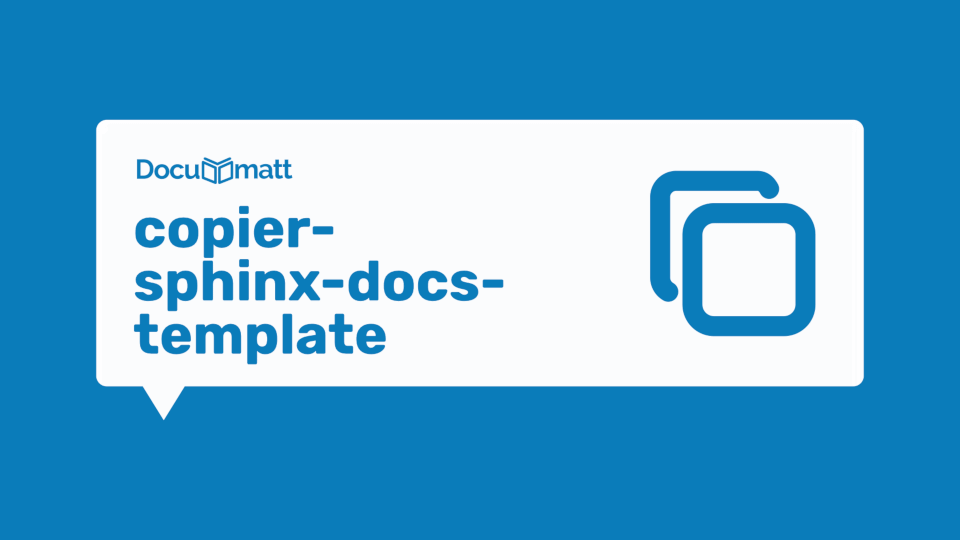
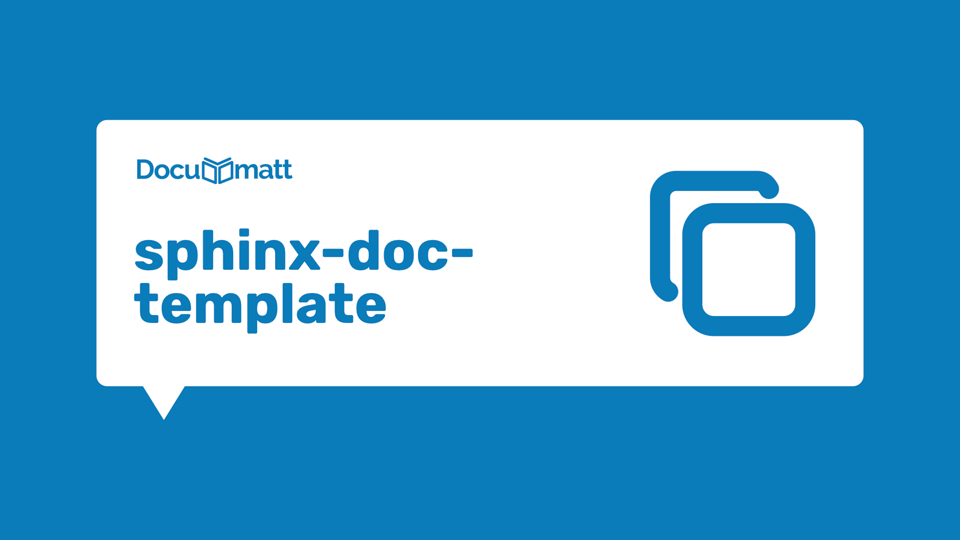
ref: rename to sphinx-doc-template

diff --git a/docs/noxfile.py b/docs/noxfile.py
@@ -1,3 +1,4 @@
+import os
 from pathlib import Path
 
 import nox
@@ -29,9 +30,6 @@ LANGUAGES = [DEFAULT_LANGUAGE] + []
 # Speed up builds by reusing virtualenvs
 nox.options.reuse_existing_virtualenvs = True
 
-# Read dependencies from pyproject.toml
-dependencies = nox.project.load_toml("pyproject.toml")["project"]["dependencies"]
-
 # No default sessions when "nox" is run (explicit is better than implicit)
 nox.options.sessions = []
 
@@ -41,18 +39,9 @@ nox.options.sessions = []
 # *****************************************************************************
 
 
-def construct_path(*args: list[str]) -> str:
-    """Constructs a string path from the given list of path components.
-
-    - Prevents using OS-specific path separator.
-    - Normalize "" or "/". E.g., ["a", "", "", "/", "b"] to ["a", "b"]
-    """
-    return str(Path(*args))
-
-
 def get_outdir_path(builder: str, lang: str) -> str:
     """Constructs the output path."""
-    return construct_path(OUTDIR, builder, lang)
+    return os.path.join(OUTDIR, builder, lang)
 
 
 def get_sphinx_opts(lang: str) -> list[str]:
@@ -76,13 +65,8 @@ def get_builder_langauge(session) -> tuple[str, str]:
         return DEFAULT_BUILDER, DEFAULT_LANGUAGE
 
 
-# *****************************************************************************
-# *** Nox sessions ***
-# *****************************************************************************
-# To invoke session(s), use "nox -s <name1>" or "nox -s <name1> <name2>"
-
-
-def _run_sphinx_builder(session, builder, language):
+def run_sphinx_builder(session, builder, language):
+    """Single place for invoking Sphinx builder. Called from all build-related sessions."""
     session.run(
         "sphinx-build",
         "-b",
@@ -95,20 +79,35 @@ def _run_sphinx_builder(session, builder, language):
     )
 
 
+def install_dependencies(session, *extra_deps: str):
+    """Install project dependencies (theme and docs dependencies, and a theme itself)."""
+    # Read dependencies from theme
+    deps = nox.project.load_toml("pyproject.toml")["project"]["dependencies"]
+
+    session.install(*deps, *extra_deps)
+
+
+# *****************************************************************************
+# *** Nox sessions ***
+# *****************************************************************************
+# To invoke session(s), use "nox -s <name1>" or "nox -s <name1> <name2>"
+
+
 @nox.session
 @nox.parametrize("builder", BUILDERS)
 @nox.parametrize("language", LANGUAGES)
 def build_all(session, builder, language):
     """Build documentation for all builders/languages."""
-    session.install(*dependencies)
-    _run_sphinx_builder(session, builder, language)
+    install_dependencies(session)
+
+    run_sphinx_builder(session, builder, language)
 
 
 @nox.session
 @nox.parametrize("builder", BUILDERS)
 def redirect(session, builder):
     """Create a redirect from the root to the default language."""
-    Path(construct_path(OUTDIR, builder, "index.html")).write_text(
+    Path(OUTDIR, builder, "index.html").write_text(
         f'<html><head><meta http-equiv="refresh" content="0; url={DEFAULT_LANGUAGE}/index.html"></head></html>'
     )
 
@@ -116,9 +115,10 @@ def redirect(session, builder):
 @nox.session
 def build(session):
     """Build documentation for a builder/language."""
+    install_dependencies(session)
+
     builder, language = get_builder_langauge(session)
-    session.install(*dependencies)
-    _run_sphinx_builder(session, builder, language)
+    run_sphinx_builder(session, builder, language)
 
 
 @nox.session
@@ -130,13 +130,10 @@ def clean(session):
 @nox.session
 def preview(session):
     """Build and serve the docs with automatic reload on change."""
-    builder, language = get_builder_langauge(session)
-
-    session.install(*dependencies, "sphinx-autobuild==2024.10.3")
-
-    clean(session)
+    install_dependencies(session, "sphinx-autobuild==2024.10.3")
 
     # Build sample and serve
+    builder, language = get_builder_langauge(session)
     session.run(
         "sphinx-autobuild",
         "-b",
@@ -151,7 +148,7 @@ def preview(session):
 @nox.session
 def gettext(session):
     """Generate .pot files and update .po files."""
-    session.install(*dependencies, "sphinx-intl==2.2.0")
+    install_dependencies(session, "sphinx-intl==2.2.0")
 
     # Generate .pot files from Sphinx
     session.run(
@@ -159,7 +156,7 @@ def gettext(session):
         "-b",
         "gettext",
         INDIR,
-        construct_path(OUTDIR, "gettext"),
+        os.path.join(OUTDIR, "gettext"),
         *DEFAULT_SPHINX_OPTS,
     )
 
@@ -178,7 +175,7 @@ def gettext(session):
         "update",
         # from .pot files at
         "-p",
-        construct_path(OUTDIR, "gettext"),
+        os.path.join(OUTDIR, "gettext"),
         # for supported languages
         *l_params,
         # no line wrapping

diff --git a/docs/source/conf.py b/docs/source/conf.py
@@ -8,7 +8,7 @@ from datetime import date
 # -- Project information -----------------------------------------------------
 # https://www.sphinx-doc.org/en/master/usage/configuration.html#project-information
 
-project = "Copier Sphinx Documentation Template"
+project = "Sphinx Documentation Template"
 author = "Documatt.com, s.r.o."
 version = "0.1.0"
 copyright = f"{date.today().year}, {author}"
@@ -55,7 +55,7 @@ translation_progress_classes = False
 
 html_title = project
 
-html_baseurl = "https://documatt.com/copier-sphinx-doc-template"
+html_baseurl = "https://documatt.com/sphinx-doc-template"
 if not html_baseurl.endswith("/"):
     html_baseurl += "/"
 
@@ -109,7 +109,7 @@ mermaid_version = "11.0.1"
 # https://sphinx-sitemap.readthedocs.io/
 
 # Turn off language alternatives in sitemap
-# https://github.com/documatt/cookiecutter-sphinx-docs-template/issues/1
+# https://github.com/documatt/sphinx-doc-template/issues/1
 sitemap_locales = [None]
 
 # Default is {lang}{version}{link}, but version is not used in URLs in this project

diff --git a/tests/test_bake/defaults/source/conf.py b/tests/test_bake/defaults/source/conf.py
@@ -109,7 +109,7 @@ mermaid_version = "11.0.1"
 # https://sphinx-sitemap.readthedocs.io/
 
 # Turn off language alternatives in sitemap
-# https://github.com/documatt/cookiecutter-sphinx-docs-template/issues/1
+# https://github.com/documatt/sphinx-doc-template/issues/1
 sitemap_locales = [None]
 
 # Default is {lang}{version}{link}, but version is not used in URLs in this project

diff --git a/README.md b/README.md
@@ -1,9 +1,9 @@
-# Copier Sphinx Documentation Template
+# Sphinx Documentation Template
 
 <div align="center">
 
-<a href="https://documatt.com/copier-sphinx-docs-template">
-    <img src="https://github.com/documatt/copier-sphinx-docs-template/blob/main/hero.png?raw=true" alt="Project hero image">
+<a href="https://documatt.com/sphinx-doc-template">
+    <img src="https://github.com/documatt/sphinx-doc-template/blob/main/hero.png?raw=true" alt="Project hero image">
 </a>
 
 <!-- overview -->
@@ -15,20 +15,20 @@
 <!-- .overview -->
 
 <p>
-    <a href="https://documatt.com/copier-sphinx-docs-template">📚Documentation</a> ·
-    <a href="https://github.com/documatt/copier-sphinx-docs-template">📟 Source code</a>
+    <a href="https://documatt.com/sphinx-doc-template">📚Documentation</a> ·
+    <a href="https://github.com/documatt/sphinx-doc-template">📟 Source code</a>
 </p>
 
 <p>
     <a href="https://github.com/copier-org/copier"><img src="https://img.shields.io/endpoint?url=https://raw.githubusercontent.com/copier-org/copier/master/img/badge/badge-grayscale-inverted-border-orange.json&labelColor=097cba&color=163B36" alt="Made with Copier badge"/></a>
-    <a href="https://github.com/documatt/copier-sphinx-docs-template">
-        <img src="https://img.shields.io/github/stars/documatt/copier-sphinx-docs-template?style=flat&logo=github&labelColor=097cba&color=163B36" alt="GitHub Repo stars badge">
+    <a href="https://github.com/documatt/sphinx-doc-template">
+        <img src="https://img.shields.io/github/stars/documatt/sphinx-doc-template?style=flat&logo=github&labelColor=097cba&color=163B36" alt="GitHub Repo stars badge">
     </a>
-    <a href="https://github.com/documatt/copier-sphinx-docs-template/actions/workflows/test.yaml">
-        <img src="https://github.com/documatt/copier-sphinx-docs-template/actions/workflows/test.yaml/badge.svg" alt="GitHub tests badge">
+    <a href="https://github.com/documatt/sphinx-doc-template/actions/workflows/test.yaml">
+        <img src="https://github.com/documatt/sphinx-doc-template/actions/workflows/test.yaml/badge.svg" alt="GitHub tests badge">
     </a>
     <img src="https://img.shields.io/badge/codestyle-Prettier-blue?labelColor=097cba&color=163B36" alt="Code style Prettier badge">
-    <a href="https://raw.githubusercontent.com/documatt/copier-sphinx-docs-template/refs/heads/main/LICENSE">
+    <a href="https://raw.githubusercontent.com/documatt/sphinx-doc-template/refs/heads/main/LICENSE">
         <img src="https://img.shields.io/badge/license-MIT-blue?labelColor=097cba&color=163B36" alt="MIT licence badge">
     </a>
 </p>
@@ -44,7 +44,7 @@ The recommended way to install the Copier, Copier dependency `jinja2_time,` is [
 With uv installed, open the terminal and
 
 ```
-uvx --with jinja2-time copier copy --trust https://github.com/documatt/copier-sphinx-docs-template my-new-docs
+uvx --with jinja2-time copier copy --trust https://github.com/documatt/sphinx-doc-template my-new-docs
 ```
 
 Answer the series of questions, and you are ready to go. You have the skeleton of a completely functional Sphinx project in `my-new-docs` folder in just a few moments.
@@ -53,9 +53,9 @@ Answer the series of questions, and you are ready to go. You have the skeleton o
 
 <!-- Link created with https://githubvideo.com -->
 
-[![How to create Sphinx documentation from a template](http://i.ytimg.com/vi/6iVeyCvgjeY/hqdefault.jpg)](https://www.youtube.com/watch?v=6iVeyCvgjeY)
+[![How to create Sphinx documentation from a template](http://i.ytimg.com/vi/tVKpPXw5deg/hqdefault.jpg)](https://www.youtube.com/watch?v=tVKpPXw5deg)
 
-[![How to preview Sphinx documentation?](http://i.ytimg.com/vi/uwzXODVOC-Q/hqdefault.jpg)](https://www.youtube.com/watch?v=uwzXODVOC-Q)
+[![How to preview Sphinx documentation?](http://i.ytimg.com/vi/tVKpPXw5deg/hqdefault.jpg)](https://www.youtube.com/watch?v=tVKpPXw5deg)
 
 ## Key Features
 
@@ -75,11 +75,11 @@ The Sphinx documentation template key features:
 
 <!-- .features -->
 
-Learn more in [📚documentation](https://documatt.com/copier-sphinx-docs-template).
+Learn more in [📚documentation](https://documatt.com/sphinx-doc-template).
 
 ## Community and contributions
 
-Bug reports, feature requests, or all contributions are welcome at our [📟 GitHub homepage](https://github.com/documatt/copier-sphinx-docs-template/).
+Bug reports, feature requests, or all contributions are welcome at our [📟 GitHub homepage](https://github.com/documatt/sphinx-doc-template/).
 
 Connect with other fellows who are building with Sphinx. Share knowledge, get help, and contribute to the open-source project. Check out our [Documatt Community](https://documatt.com/community) page to see featured material and upcoming events.
 

diff --git a/docs/source/quickstart.md b/docs/source/quickstart.md
@@ -24,7 +24,7 @@ The recommended way to install and run is using the [uv] tool. The uv can even i
 1. **Answer questions.** Open the terminal, choose a destination folder (use `.` for current), and follow the wizard. E.g.,:
 
    ```
-   uvx --with jinja2-time copier copy --trust https://github.com/documatt/copier-sphinx-docs-template my-documentation
+   uvx --with jinja2-time copier copy --trust https://github.com/documatt/sphinx-doc-template my-documentation
    ```
 
    This lengthy command handles everything. It will install Copier, its `jinja2-time` dependency, and call Copier with `--trust` to allow the use of `jinja2-time`.

diff --git a/CHANGELOG.md b/CHANGELOG.md
@@ -7,4 +7,14 @@ and this project adheres to [Semantic Versioning](https://semver.org/spec/v2.0.0
 
 ## [Unreleased]
 
+- ref: rename project to sphinx-doc-template (instead of copier-sphinx-docs-template)
+- ref: reduce repating code in noxfile.py
+
+## [0.2.0]
+
+- feat: add sphinx-copybutton extension
+- docs: improve docs
+
+## [0.1.0]
+
 Initial version.
